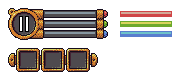
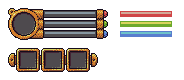
Limitar el número de disparos simultáneos

Changed region(s): [[0.0815, 0.2, 0.163, 0.4]]

diff --git a/Screens/GameScreen.cs b/Screens/GameScreen.cs
@@ -24,6 +24,7 @@ namespace SideShooting.Screens
         private Texture2D map;
         private Texture2D clouds;
         private Texture2D ui;
+        private SpriteFont font;
         private Vector2[] cloudVectors = new Vector2[4];
         private Song gameSong;
         private Rectangle uiRect, uiRedRect, uiGreenBar, uiBlueBar;
@@ -75,6 +76,8 @@ namespace SideShooting.Screens
             SpriteBatch.Draw(ui, new Vector2(basePos + 36, basePos + 3), uiRedRect, Color.White);
             SpriteBatch.Draw(ui, new Vector2(basePos + 36, basePos + 13), uiGreenBar, Color.White);
             SpriteBatch.Draw(ui, new Vector2(basePos + 36, basePos + 23), uiBlueBar, Color.White);
+
+            SpriteBatch.DrawString(font, ""+Player.ProjectilesAvailable, new Vector2(basePos + 12, basePos + 3), Color.White);
 
             SpriteBatch.End();
 
@@ -158,6 +161,7 @@ namespace SideShooting.Screens
             shotSound = Content.Load<SoundEffect>("Audio/dmgrecibido");
             clouds = Content.Load<Texture2D>("Images/capanubes");
             ui = Content.Load<Texture2D>("Images/ui");
+            font = Content.Load<SpriteFont>("Fonts/SaviorMessage");
         }
 
         public void DrawProjectiles(List<Projectile> projectiles)
@@ -177,6 +181,7 @@ namespace SideShooting.Screens
                 if (!GameMain.ScreenRect.Contains(projectiles[i].Location.ToPoint()))
                 {
                     Projectiles.Remove(projectiles[i]);
+                    Player.ProjectilesAvailable++;
                 }
             }
         }
@@ -225,6 +230,7 @@ namespace SideShooting.Screens
             Projectiles.Clear();
             EnemyProjectiles.Clear();
             cleanerEffect = 5;
+            Player.ProjectilesAvailable = Character.MaxProjectiles;
         }
     }
 }

diff --git a/Elements/Character.cs b/Elements/Character.cs
@@ -8,6 +8,7 @@ namespace SideShooting.Elements
         public const int MaxHealth = 6;
         public const int MaxGreen = 50;
         public const int MaxBlue = 100;
+        public const int MaxProjectiles = 9;
 
         public Texture2D Sprite { get; set; }
         public int CurrentAnimation { get; set; }
@@ -18,6 +19,7 @@ namespace SideShooting.Elements
         public int Health { get; set; }
         public int GreenBar { get; set; }
         public int BlueBar { get; set; }
+        public int ProjectilesAvailable { get; set; }
 
         public int spriteHeight = (int) (22 * 1.3);
         public int spriteWidth = (int) (15 * 1.3);
@@ -34,6 +36,7 @@ namespace SideShooting.Elements
             Health = MaxHealth;
             GreenBar = MaxGreen;
             BlueBar = MaxBlue;
+            ProjectilesAvailable = MaxProjectiles;
 
             SourceAnimations = new Rectangle[4];
             for (int i = 0, left = 1, top = 6, width = 64, height = 22; i < SourceAnimations.Length; i++, top += 32)

diff --git a/Handlers/InputManager.cs b/Handlers/InputManager.cs
@@ -205,8 +205,10 @@ namespace SideShooting.Handlers
 
             MouseState mState = Mouse.GetState();
 
-            if (mState.LeftButton == ButtonState.Pressed && mOldState.LeftButton == ButtonState.Released)
+            if (gameScreen.Player.ProjectilesAvailable > 0 && mState.LeftButton == ButtonState.Pressed && mOldState.LeftButton == ButtonState.Released)
             {
+                gameScreen.Player.ProjectilesAvailable--;
+
                 var projectile = new Projectile(gameScreen.ProjectileSprite, gameScreen.Player.Location, mState.Position);
                 gameScreen.Projectiles.Add(projectile);
                 gameScreen.Connection.SendProjectile(projectile);

diff --git a/Handlers/ConnectionManager.cs b/Handlers/ConnectionManager.cs
@@ -112,6 +112,7 @@ namespace SideShooting.Handlers
                                     if (GameScreen.Projectiles[i].Id == Convert.ToInt32(data[1]))
                                     {
                                         GameScreen.Projectiles.Remove(GameScreen.Projectiles[i]);
+                                        GameScreen.Player.ProjectilesAvailable++;
                                     }
                                 }
                                 break;
